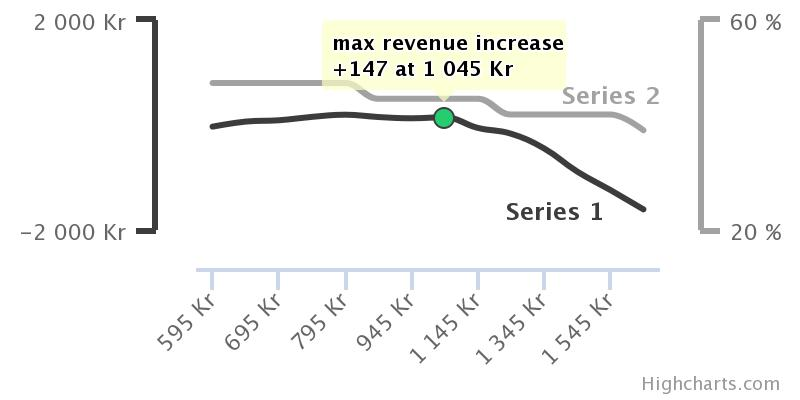
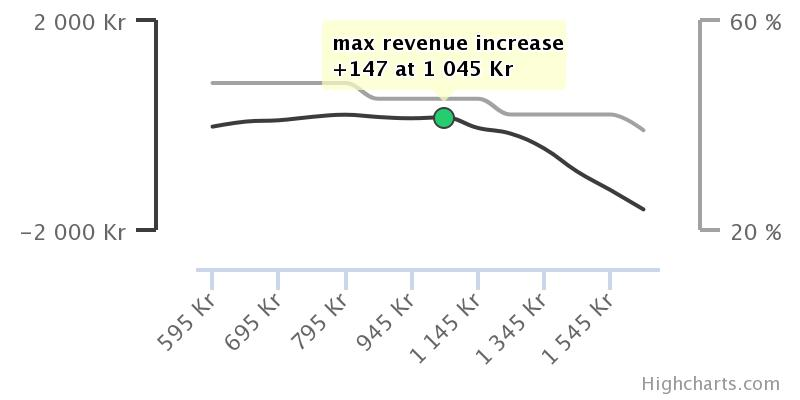
adding new image

diff --git a/.idea/detailed_graph.html b/.idea/detailed_graph.html
@@ -83,7 +83,6 @@
                 offset: 20,
                 tickWidth: 2,
                 tickAmount: 3,
-                //categories: ['10','', '50', '100'],
                 categories: [595, 645, 695, 745, 795, 845, 945, 1045, 1145, 1245, 1345, 1445, 1545,1645],
 
                 labels: {
@@ -104,10 +103,10 @@
                     min: -1607,
                     lineColor: '#3C3C3C',
                     tickColor: '#3C3C3C',
-                    lineWidth: 3,
+                    lineWidth: 2,
 
                     offset: 20,
-                    tickWidth: 3,
+                    tickWidth: 2,
                     tickAmount: 2,
 
                     title: {
@@ -124,9 +123,9 @@
                     gridLineWidth: 0,
                     max: 60,
                     min: 20,
-                    lineWidth: 3,
+                    lineWidth: 2,
                     offset: 20,
-                    tickWidth: 3,
+                    tickWidth: 2,
                     tickAmount: 2,
                     lineColor: '#A2A2A2',
                     tickColor: '#A2A2A2',
@@ -140,7 +139,11 @@
                 }
             ],
             plotOptions: {
+
                 spline: {
+
+                    enableMouseTracking: false,
+
                     marker: {
                         enabled: false
                     }
@@ -161,29 +164,14 @@
 
 
             series: [
-//            {
-//                name: 'Price',
-//                type: 'spline',
-//                xAxis: 0,
-//                data: [
-//                    {
-//                        y: 100,
-//                        dataLabels: {
-//                            enabled: true,
-//                            format: '<span style="font-size: 1.3em">Annotation</span>',
-//                            verticalAlign: 'bottom',
-//                            y: 100
-//                        }
-//                    },
-//                    595, 645, 695, 745, 795, 845, 945, 1045, 1145, 1245, 1345, 1445,1545,1645]
-//                //data: [[595,10], [645,20], [695], [745], [795], [845], [945], [1045], [1145], [1245], [1345], [1445],[1545],[1645]]
-//            },
                 {
                     name: '',
                     yAxis: 0,
                     type: 'spline',
                     color: '#3C3C3C',
-                    lineWidth:3,
+                    lineWidth:2,
+                    label:false,
+                    showInLegend: false,
                     //data: [-31, 65, 90, 155, 196, 152, 128, 147, -55, -165, -445, -886, -1237, -1607]
 
                     data: [-31, 65, 90, 155, 196, 152, 128,{
@@ -213,7 +201,9 @@
                     type: 'spline',
                     yAxis: 1,
                     color: '#A2A2A2',
-                    lineWidth:3,
+                    lineWidth:2,
+                    label:false,
+                    showInLegend: false,
                     data: [48, 48, 48, 48, 48, 45, 45, 45, 45, 42, 42, 42, 42, 39]
                 }
             ],
